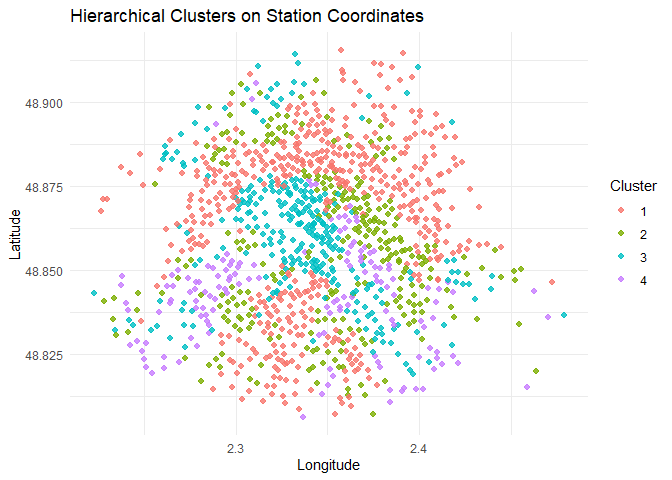
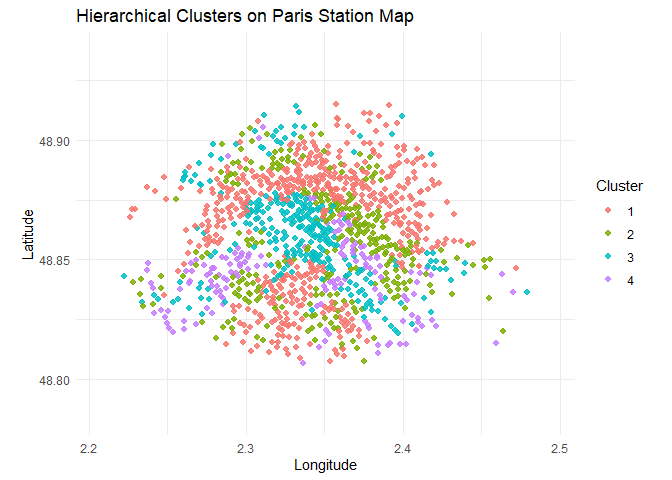
Add basemap-backed cluster maps to report

diff --git a/index.md b/index.md
@@ -306,10 +306,44 @@ hc_map_data <- data.frame(
   cluster = factor(hc_clust)
 )
 
-ggplot(hc_map_data, aes(x = longitude, y = latitude, color = cluster)) +
-  geom_point(size = 1.8, alpha = 0.8) +
+paris_bbox <- list(
+  xmin = min(hc_map_data$longitude) - 0.03,
+  xmax = max(hc_map_data$longitude) + 0.03,
+  ymin = min(hc_map_data$latitude) - 0.03,
+  ymax = max(hc_map_data$latitude) + 0.03
+)
+
+basemap_df <- NULL
+if (requireNamespace("maps", quietly = TRUE)) {
+  world_df <- ggplot2::map_data("world")
+  basemap_df <- subset(
+    world_df,
+    long >= paris_bbox$xmin & long <= paris_bbox$xmax &
+      lat >= paris_bbox$ymin & lat <= paris_bbox$ymax
+  )
+}
+
+p_hc <- ggplot()
+if (!is.null(basemap_df) && nrow(basemap_df) > 0) {
+  p_hc <- p_hc +
+    geom_polygon(
+      data = basemap_df,
+      aes(x = long, y = lat, group = group),
+      fill = "grey96",
+      color = "grey70",
+      linewidth = 0.2
+    )
+}
+
+p_hc +
+  geom_point(data = hc_map_data, aes(x = longitude, y = latitude, color = cluster), size = 1.8, alpha = 0.85) +
+  coord_quickmap(
+    xlim = c(paris_bbox$xmin, paris_bbox$xmax),
+    ylim = c(paris_bbox$ymin, paris_bbox$ymax),
+    expand = FALSE
+  ) +
   labs(
-    title = "Hierarchical Clusters on Station Coordinates",
+    title = "Hierarchical Clusters on Paris Station Map",
     x = "Longitude",
     y = "Latitude",
     color = "Cluster"
@@ -344,10 +378,27 @@ km_map_data <- data.frame(
   cluster = factor(out_km$cluster)
 )
 
-ggplot(km_map_data, aes(x = longitude, y = latitude, color = cluster)) +
-  geom_point(size = 1.8, alpha = 0.8) +
+p_km <- ggplot()
+if (!is.null(basemap_df) && nrow(basemap_df) > 0) {
+  p_km <- p_km +
+    geom_polygon(
+      data = basemap_df,
+      aes(x = long, y = lat, group = group),
+      fill = "grey96",
+      color = "grey70",
+      linewidth = 0.2
+    )
+}
+
+p_km +
+  geom_point(data = km_map_data, aes(x = longitude, y = latitude, color = cluster), size = 1.8, alpha = 0.85) +
+  coord_quickmap(
+    xlim = c(paris_bbox$xmin, paris_bbox$xmax),
+    ylim = c(paris_bbox$ymin, paris_bbox$ymax),
+    expand = FALSE
+  ) +
   labs(
-    title = "k-means Clusters on Station Coordinates (k=5)",
+    title = "k-means Clusters on Paris Station Map (k=5)",
     x = "Longitude",
     y = "Latitude",
     color = "Cluster"
